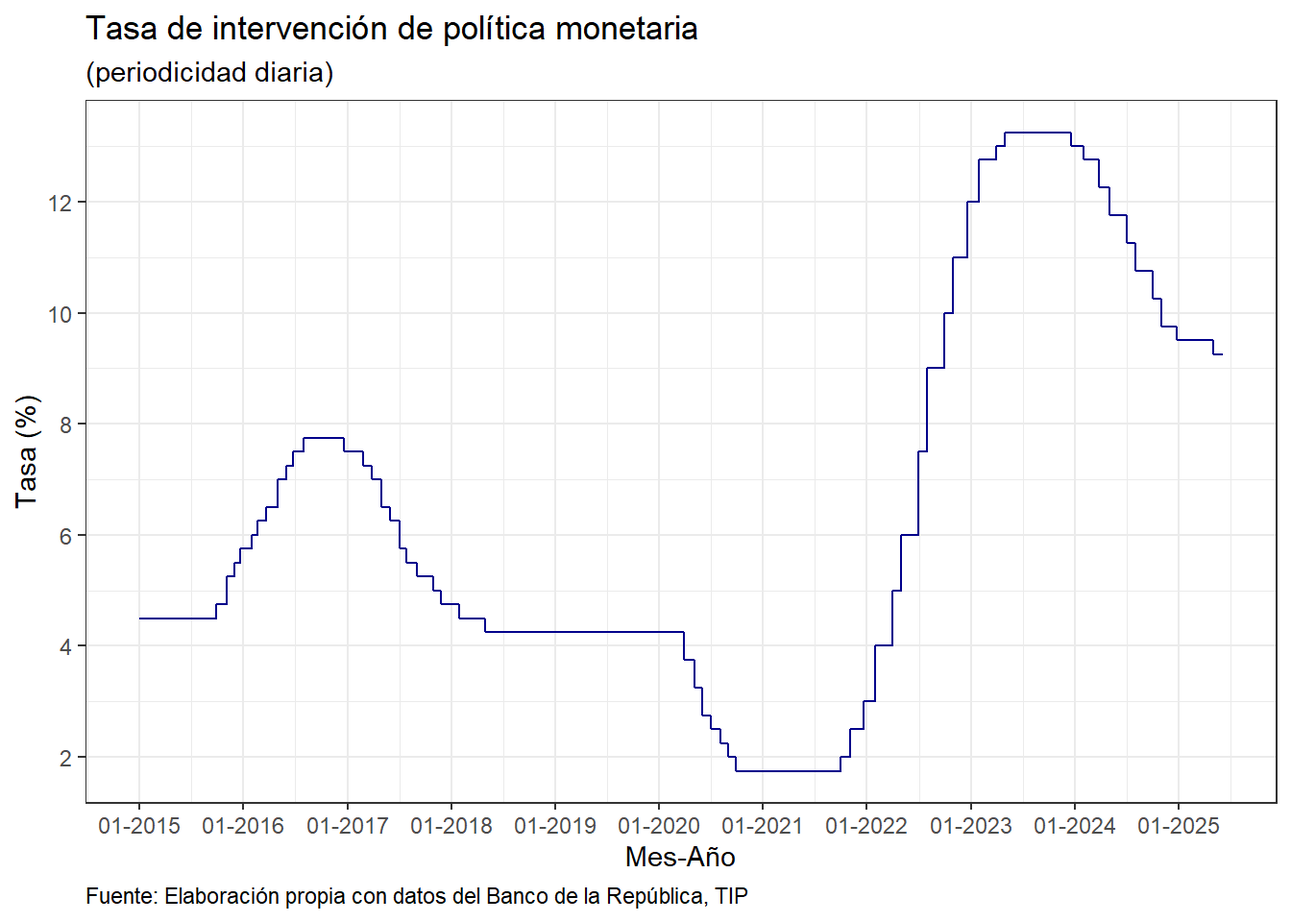
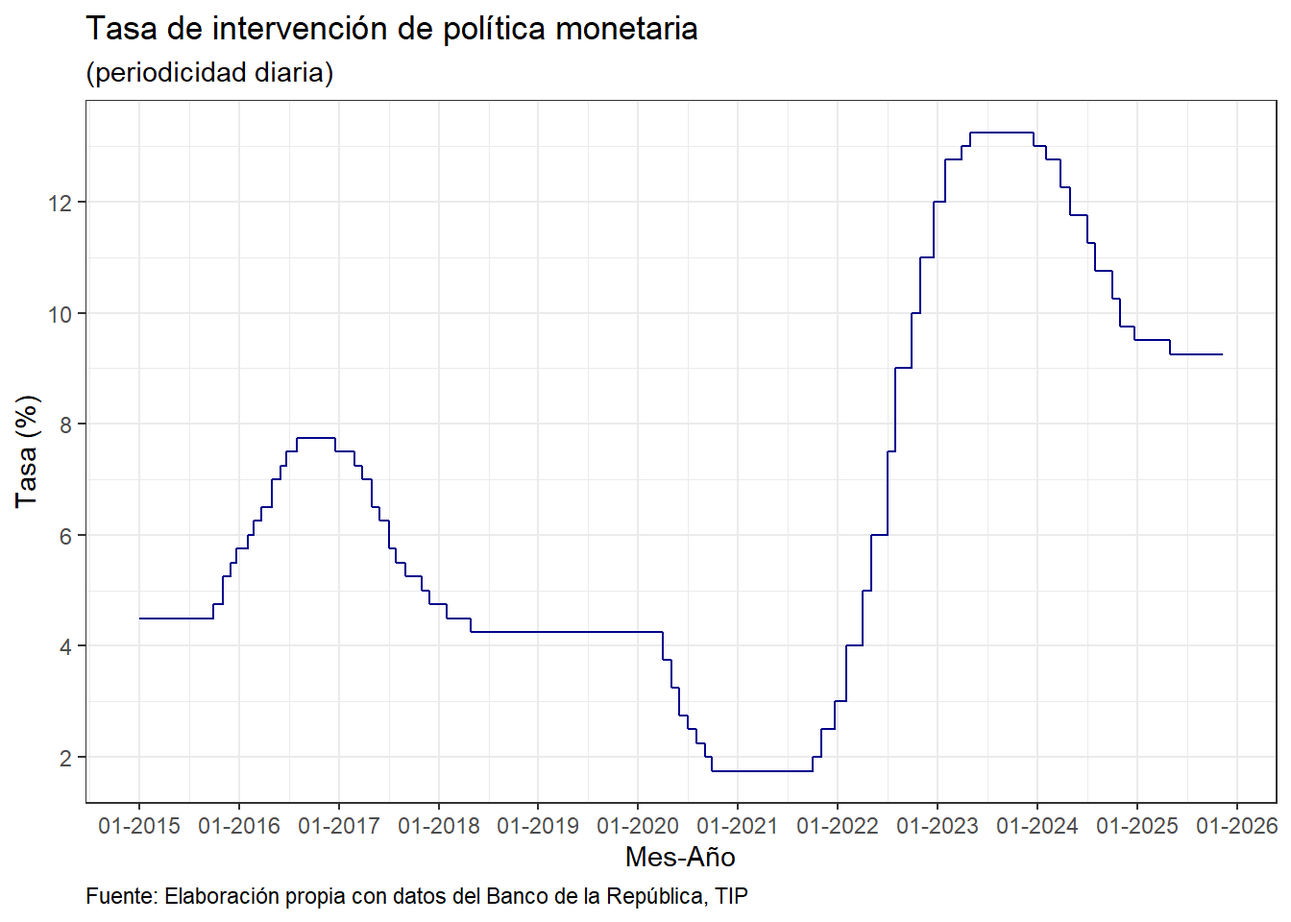
Publish site to docs/

diff --git a/docs/REPO_rate.html b/docs/REPO_rate.html
@@ -2,12 +2,12 @@
 <html xmlns="http://www.w3.org/1999/xhtml" lang="en" xml:lang="en"><head>
 
 <meta charset="utf-8">
-<meta name="generator" content="quarto-1.7.31">
+<meta name="generator" content="quarto-1.7.32">
 
 <meta name="viewport" content="width=device-width, initial-scale=1.0, user-scalable=yes">
 
 <meta name="author" content="Miguel Martinez">
-<meta name="dcterms.date" content="2025-06-04">
+<meta name="dcterms.date" content="2025-11-09">
 
 <title>Policy rate</title>
 <style>
@@ -72,7 +72,7 @@ pre > code.sourceCode > span > a:first-child::before { text-decoration: underlin
 <script src="site_libs/quarto-html/tippy.umd.min.js"></script>
 <script src="site_libs/quarto-html/anchor.min.js"></script>
 <link href="site_libs/quarto-html/tippy.css" rel="stylesheet">
-<link href="site_libs/quarto-html/quarto-syntax-highlighting-e1a5c8363afafaef2c763b6775fbf3ca.css" rel="stylesheet" id="quarto-text-highlighting-styles">
+<link href="site_libs/quarto-html/quarto-syntax-highlighting-37eea08aefeeee20ff55810ff984fec1.css" rel="stylesheet" id="quarto-text-highlighting-styles">
 <script src="site_libs/bootstrap/bootstrap.min.js"></script>
 <link href="site_libs/bootstrap/bootstrap-icons.css" rel="stylesheet">
 <link href="site_libs/bootstrap/bootstrap-dfb324f25d9b1687192fa8be62ac8f9c.min.css" rel="stylesheet" append-hash="true" id="quarto-bootstrap" data-mode="light">
@@ -151,7 +151,7 @@ pre > code.sourceCode > span > a:first-child::before { text-decoration: underlin
     <div>
     <div class="quarto-title-meta-heading">Published</div>
     <div class="quarto-title-meta-contents">
-      <p class="date">June 4, 2025</p>
+      <p class="date">November 9, 2025</p>
     </div>
   </div>
   
@@ -163,22 +163,28 @@ pre > code.sourceCode > span > a:first-child::before { text-decoration: underlin
 </header>
 
 
-<p>The purpose of this document is to present the process of creating the plot that shows the evolution of the repo rate of the central bank of Colombia: <a href="https://www.banrep.gov.co/es">Banco de la República</a>. The information is made public by this institution and you can replicate this exercise downloading the information <a href="https://suameca.banrep.gov.co/buscador-de-series/#/">here</a>.</p>
+<p>This R document presents the process for loading, munging and plotting the evolution of the daily daily-frequency of the policy rate of the Central Bank of Colombia, <a href="https://www.banrep.gov.co/es">Banco de la República</a>. The information is published by Banrep and you can download it <a href="https://suameca.banrep.gov.co/buscador-de-series/#/">here</a>.</p>
 <p>The first step is to load the following libraries:</p>
 <div class="cell">
-<div class="sourceCode cell-code" id="cb1"><pre class="sourceCode r code-with-copy"><code class="sourceCode r"><span id="cb1-1"><a href="#cb1-1" aria-hidden="true" tabindex="-1"></a><span class="fu">library</span>(readxl)</span>
-<span id="cb1-2"><a href="#cb1-2" aria-hidden="true" tabindex="-1"></a><span class="fu">library</span>(tidyverse)</span>
-<span id="cb1-3"><a href="#cb1-3" aria-hidden="true" tabindex="-1"></a><span class="fu">library</span>(lubridate)</span></code><button title="Copy to Clipboard" class="code-copy-button"><i class="bi"></i></button></pre></div>
+<div class="sourceCode cell-code" id="cb1"><pre class="sourceCode r code-with-copy"><code class="sourceCode r"><span id="cb1-1"><a href="#cb1-1" aria-hidden="true" tabindex="-1"></a><span class="co"># Load libraries</span></span>
+<span id="cb1-2"><a href="#cb1-2" aria-hidden="true" tabindex="-1"></a></span>
+<span id="cb1-3"><a href="#cb1-3" aria-hidden="true" tabindex="-1"></a><span class="fu">library</span>(readxl)</span>
+<span id="cb1-4"><a href="#cb1-4" aria-hidden="true" tabindex="-1"></a><span class="fu">library</span>(tidyverse)</span>
+<span id="cb1-5"><a href="#cb1-5" aria-hidden="true" tabindex="-1"></a><span class="fu">library</span>(lubridate)</span>
+<span id="cb1-6"><a href="#cb1-6" aria-hidden="true" tabindex="-1"></a><span class="fu">library</span>(janitor)</span></code><button title="Copy to Clipboard" class="code-copy-button"><i class="bi"></i></button></pre></div>
 </div>
 <section id="load-data" class="level2">
 <h2 class="anchored" data-anchor-id="load-data">Load data</h2>
-<p>Now we can download the data:</p>
+<p>Now we can load the data:</p>
 <div class="cell">
-<div class="sourceCode cell-code" id="cb2"><pre class="sourceCode r code-with-copy"><code class="sourceCode r"><span id="cb2-1"><a href="#cb2-1" aria-hidden="true" tabindex="-1"></a>data <span class="ot">=</span> readxl<span class="sc">::</span><span class="fu">read_excel</span>(<span class="st">"graficador_series.xlsx"</span>,</span>
-<span id="cb2-2"><a href="#cb2-2" aria-hidden="true" tabindex="-1"></a>                          <span class="at">sheet =</span> <span class="st">"Datos"</span>,</span>
-<span id="cb2-3"><a href="#cb2-3" aria-hidden="true" tabindex="-1"></a>                          <span class="at">range =</span> <span class="st">"A1:I9974"</span>,</span>
-<span id="cb2-4"><a href="#cb2-4" aria-hidden="true" tabindex="-1"></a>                          <span class="at">col_names =</span> <span class="cn">TRUE</span>,</span>
-<span id="cb2-5"><a href="#cb2-5" aria-hidden="true" tabindex="-1"></a>                          <span class="at">na =</span> <span class="st">"-"</span>)</span></code><button title="Copy to Clipboard" class="code-copy-button"><i class="bi"></i></button></pre></div>
+<div class="sourceCode cell-code" id="cb2"><pre class="sourceCode r code-with-copy"><code class="sourceCode r"><span id="cb2-1"><a href="#cb2-1" aria-hidden="true" tabindex="-1"></a><span class="co"># Load data</span></span>
+<span id="cb2-2"><a href="#cb2-2" aria-hidden="true" tabindex="-1"></a></span>
+<span id="cb2-3"><a href="#cb2-3" aria-hidden="true" tabindex="-1"></a>data <span class="ot">=</span> readxl<span class="sc">::</span><span class="fu">read_excel</span>(<span class="st">"graficador_series.xlsx"</span>,</span>
+<span id="cb2-4"><a href="#cb2-4" aria-hidden="true" tabindex="-1"></a>                          <span class="at">sheet =</span> <span class="st">"Datos"</span>,</span>
+<span id="cb2-5"><a href="#cb2-5" aria-hidden="true" tabindex="-1"></a>                          <span class="at">range =</span> <span class="st">"A1:I10133"</span>,</span>
+<span id="cb2-6"><a href="#cb2-6" aria-hidden="true" tabindex="-1"></a>                          <span class="at">col_names =</span> <span class="cn">TRUE</span>,</span>
+<span id="cb2-7"><a href="#cb2-7" aria-hidden="true" tabindex="-1"></a>                          <span class="at">na =</span> <span class="st">"-"</span>,</span>
+<span id="cb2-8"><a href="#cb2-8" aria-hidden="true" tabindex="-1"></a>                          <span class="at">.name_repair =</span> make_clean_names)</span></code><button title="Copy to Clipboard" class="code-copy-button"><i class="bi"></i></button></pre></div>
 </div>
 </section>
 <section id="indexing" class="level2">
@@ -191,93 +197,101 @@ pre > code.sourceCode > span > a:first-child::before { text-decoration: underlin
 </section>
 <section id="transformation" class="level2">
 <h2 class="anchored" data-anchor-id="transformation">Transformation</h2>
-<p>Now we transform the date column with the function <code>as.Date</code>:</p>
+<p>Now we transform the date column with <code>as.Date</code>function:</p>
 <div class="cell">
-<div class="sourceCode cell-code" id="cb4"><pre class="sourceCode r code-with-copy"><code class="sourceCode r"><span id="cb4-1"><a href="#cb4-1" aria-hidden="true" tabindex="-1"></a>data <span class="ot">=</span> data <span class="sc">|&gt;</span> </span>
-<span id="cb4-2"><a href="#cb4-2" aria-hidden="true" tabindex="-1"></a>  dplyr<span class="sc">::</span><span class="fu">mutate</span>(</span>
-<span id="cb4-3"><a href="#cb4-3" aria-hidden="true" tabindex="-1"></a>    <span class="at">Fecha =</span> <span class="fu">as.Date</span>(Fecha, <span class="at">format =</span> <span class="st">"%d/%m/%Y"</span>))</span></code><button title="Copy to Clipboard" class="code-copy-button"><i class="bi"></i></button></pre></div>
+<div class="sourceCode cell-code" id="cb4"><pre class="sourceCode r code-with-copy"><code class="sourceCode r"><span id="cb4-1"><a href="#cb4-1" aria-hidden="true" tabindex="-1"></a><span class="co"># Parsing to date</span></span>
+<span id="cb4-2"><a href="#cb4-2" aria-hidden="true" tabindex="-1"></a></span>
+<span id="cb4-3"><a href="#cb4-3" aria-hidden="true" tabindex="-1"></a>data <span class="ot">=</span> data <span class="sc">|&gt;</span> </span>
+<span id="cb4-4"><a href="#cb4-4" aria-hidden="true" tabindex="-1"></a>  dplyr<span class="sc">::</span><span class="fu">mutate</span>(</span>
+<span id="cb4-5"><a href="#cb4-5" aria-hidden="true" tabindex="-1"></a>    <span class="at">fecha =</span> <span class="fu">as.Date</span>(fecha, <span class="at">format =</span> <span class="st">"%d/%m/%Y"</span>))</span></code><button title="Copy to Clipboard" class="code-copy-button"><i class="bi"></i></button></pre></div>
 </div>
-<p>Now, we can create the new columns: <code>year</code> <code>month</code> and <code>day</code>, from the <code>date</code> variable with the <code>lubridate</code> library:</p>
+<p>Now, we can create the new columns: <code>year</code> <code>month</code> and <code>day</code>, from the <code>date</code> variable with the <code>lubridate</code> functions:</p>
 <div class="cell">
-<div class="sourceCode cell-code" id="cb5"><pre class="sourceCode r code-with-copy"><code class="sourceCode r"><span id="cb5-1"><a href="#cb5-1" aria-hidden="true" tabindex="-1"></a>data<span class="sc">$</span>año <span class="ot">=</span> lubridate<span class="sc">::</span><span class="fu">year</span>(data<span class="sc">$</span>Fecha)</span>
-<span id="cb5-2"><a href="#cb5-2" aria-hidden="true" tabindex="-1"></a>data<span class="sc">$</span>mes <span class="ot">=</span> lubridate<span class="sc">::</span><span class="fu">month</span>(data<span class="sc">$</span>Fecha)</span>
-<span id="cb5-3"><a href="#cb5-3" aria-hidden="true" tabindex="-1"></a>data<span class="sc">$</span>dia <span class="ot">=</span> lubridate<span class="sc">::</span><span class="fu">day</span>(data<span class="sc">$</span>Fecha)</span>
-<span id="cb5-4"><a href="#cb5-4" aria-hidden="true" tabindex="-1"></a></span>
-<span id="cb5-5"><a href="#cb5-5" aria-hidden="true" tabindex="-1"></a><span class="fu">glimpse</span>(data)</span></code><button title="Copy to Clipboard" class="code-copy-button"><i class="bi"></i></button></pre></div>
+<div class="sourceCode cell-code" id="cb5"><pre class="sourceCode r code-with-copy"><code class="sourceCode r"><span id="cb5-1"><a href="#cb5-1" aria-hidden="true" tabindex="-1"></a><span class="co"># Extract information</span></span>
+<span id="cb5-2"><a href="#cb5-2" aria-hidden="true" tabindex="-1"></a></span>
+<span id="cb5-3"><a href="#cb5-3" aria-hidden="true" tabindex="-1"></a>data<span class="sc">$</span>año <span class="ot">=</span> lubridate<span class="sc">::</span><span class="fu">year</span>(data<span class="sc">$</span>fecha)</span>
+<span id="cb5-4"><a href="#cb5-4" aria-hidden="true" tabindex="-1"></a>data<span class="sc">$</span>mes <span class="ot">=</span> lubridate<span class="sc">::</span><span class="fu">month</span>(data<span class="sc">$</span>fecha)</span>
+<span id="cb5-5"><a href="#cb5-5" aria-hidden="true" tabindex="-1"></a>data<span class="sc">$</span>dia <span class="ot">=</span> lubridate<span class="sc">::</span><span class="fu">day</span>(data<span class="sc">$</span>fecha)</span>
+<span id="cb5-6"><a href="#cb5-6" aria-hidden="true" tabindex="-1"></a></span>
+<span id="cb5-7"><a href="#cb5-7" aria-hidden="true" tabindex="-1"></a><span class="fu">glimpse</span>(data)</span></code><button title="Copy to Clipboard" class="code-copy-button"><i class="bi"></i></button></pre></div>
 <div class="cell-output cell-output-stdout">
-<pre><code>Rows: 9,972
+<pre><code>Rows: 10,131
 Columns: 12
-$ Fecha                                               &lt;date&gt; 1998-02-13, 1998-…
-$ `Tasa de política monetaria(Dato diario)`           &lt;chr&gt; "27,00", "27,00", …
-$ `Tasa de política monetaria(Dato fin de semana)`    &lt;chr&gt; NA, "27,00", "27,0…
-$ `Tasa de política monetaria(Dato mes)`              &lt;chr&gt; NA, NA, "27,00", N…
-$ `Tasa de política monetaria(Dato fin de mes)`       &lt;chr&gt; NA, NA, NA, NA, NA…
-$ `Tasa de política monetaria(Dato fin de trimestre)` &lt;chr&gt; NA, NA, NA, NA, NA…
-$ `Tasa de política monetaria(Dato fin de semestre)`  &lt;chr&gt; NA, NA, NA, NA, NA…
-$ `Tasa de política monetaria(Dato fin de año)`       &lt;chr&gt; NA, NA, NA, NA, NA…
-$ `Tasa de política monetaria(Dato semanal)`          &lt;chr&gt; "27,00", NA, NA, N…
-$ año                                                 &lt;dbl&gt; 1998, 1998, 1998, …
-$ mes                                                 &lt;dbl&gt; 2, 2, 2, 2, 2, 2, …
-$ dia                                                 &lt;int&gt; 13, 14, 15, 16, 17…</code></pre>
+$ fecha                                            &lt;date&gt; 1998-02-13, 1998-02-…
+$ tasa_de_politica_monetaria_dato_diario           &lt;chr&gt; "27,00", "27,00", "27…
+$ tasa_de_politica_monetaria_dato_fin_de_semana    &lt;chr&gt; NA, "27,00", "27,00",…
+$ tasa_de_politica_monetaria_dato_mes              &lt;chr&gt; NA, NA, "27,00", NA, …
+$ tasa_de_politica_monetaria_dato_fin_de_mes       &lt;chr&gt; NA, NA, NA, NA, NA, N…
+$ tasa_de_politica_monetaria_dato_fin_de_trimestre &lt;chr&gt; NA, NA, NA, NA, NA, N…
+$ tasa_de_politica_monetaria_dato_fin_de_semestre  &lt;chr&gt; NA, NA, NA, NA, NA, N…
+$ tasa_de_politica_monetaria_dato_fin_de_ano       &lt;chr&gt; NA, NA, NA, NA, NA, N…
+$ tasa_de_politica_monetaria_dato_semanal          &lt;chr&gt; "27,00", NA, NA, NA, …
+$ año                                              &lt;dbl&gt; 1998, 1998, 1998, 199…
+$ mes                                              &lt;dbl&gt; 2, 2, 2, 2, 2, 2, 2, …
+$ dia                                              &lt;int&gt; 13, 14, 15, 16, 17, 1…</code></pre>
 </div>
 </div>
 <div class="cell">
 <div class="sourceCode cell-code" id="cb7"><pre class="sourceCode r code-with-copy"><code class="sourceCode r"><span id="cb7-1"><a href="#cb7-1" aria-hidden="true" tabindex="-1"></a><span class="co"># Converting Tasa diaria to 'double' format replacing "," -&gt; "."</span></span>
 <span id="cb7-2"><a href="#cb7-2" aria-hidden="true" tabindex="-1"></a></span>
 <span id="cb7-3"><a href="#cb7-3" aria-hidden="true" tabindex="-1"></a>data <span class="ot">=</span> data <span class="sc">|&gt;</span></span>
-<span id="cb7-4"><a href="#cb7-4" aria-hidden="true" tabindex="-1"></a>  dplyr<span class="sc">::</span><span class="fu">select</span>(Fecha, año,</span>
+<span id="cb7-4"><a href="#cb7-4" aria-hidden="true" tabindex="-1"></a>  dplyr<span class="sc">::</span><span class="fu">select</span>(fecha, año,</span>
 <span id="cb7-5"><a href="#cb7-5" aria-hidden="true" tabindex="-1"></a>                mes, dia,</span>
-<span id="cb7-6"><a href="#cb7-6" aria-hidden="true" tabindex="-1"></a>                <span class="st">`</span><span class="at">Tasa de política monetaria(Dato diario)</span><span class="st">`</span>) <span class="sc">|&gt;</span> </span>
+<span id="cb7-6"><a href="#cb7-6" aria-hidden="true" tabindex="-1"></a>                tasa_de_politica_monetaria_dato_diario) <span class="sc">|&gt;</span> </span>
 <span id="cb7-7"><a href="#cb7-7" aria-hidden="true" tabindex="-1"></a>  dplyr<span class="sc">::</span><span class="fu">mutate</span>(</span>
-<span id="cb7-8"><a href="#cb7-8" aria-hidden="true" tabindex="-1"></a>    <span class="st">`</span><span class="at">Tasa de política monetaria(Dato diario)</span><span class="st">`</span> <span class="ot">=</span> </span>
+<span id="cb7-8"><a href="#cb7-8" aria-hidden="true" tabindex="-1"></a>    <span class="at">tasa_de_politica_monetaria_dato_diario =</span> </span>
 <span id="cb7-9"><a href="#cb7-9" aria-hidden="true" tabindex="-1"></a>      <span class="fu">as.numeric</span>(<span class="fu">str_replace_all</span>(</span>
-<span id="cb7-10"><a href="#cb7-10" aria-hidden="true" tabindex="-1"></a>        <span class="at">string =</span> <span class="st">`</span><span class="at">Tasa de política monetaria(Dato diario)</span><span class="st">`</span>,</span>
+<span id="cb7-10"><a href="#cb7-10" aria-hidden="true" tabindex="-1"></a>        <span class="at">string =</span> tasa_de_politica_monetaria_dato_diario,</span>
 <span id="cb7-11"><a href="#cb7-11" aria-hidden="true" tabindex="-1"></a>        <span class="at">pattern =</span> <span class="st">","</span>,</span>
 <span id="cb7-12"><a href="#cb7-12" aria-hidden="true" tabindex="-1"></a>        <span class="at">replacement =</span> <span class="st">"."</span>)))</span>
 <span id="cb7-13"><a href="#cb7-13" aria-hidden="true" tabindex="-1"></a></span>
 <span id="cb7-14"><a href="#cb7-14" aria-hidden="true" tabindex="-1"></a>data</span></code><button title="Copy to Clipboard" class="code-copy-button"><i class="bi"></i></button></pre></div>
 <div class="cell-output cell-output-stdout">
-<pre><code># A tibble: 9,972 × 5
-   Fecha        año   mes   dia `Tasa de política monetaria(Dato diario)`
-   &lt;date&gt;     &lt;dbl&gt; &lt;dbl&gt; &lt;int&gt;                                     &lt;dbl&gt;
- 1 1998-02-13  1998     2    13                                        27
- 2 1998-02-14  1998     2    14                                        27
- 3 1998-02-15  1998     2    15                                        27
- 4 1998-02-16  1998     2    16                                        30
- 5 1998-02-17  1998     2    17                                        30
- 6 1998-02-18  1998     2    18                                        30
- 7 1998-02-19  1998     2    19                                        30
- 8 1998-02-20  1998     2    20                                        30
- 9 1998-02-21  1998     2    21                                        30
-10 1998-02-22  1998     2    22                                        30
-# ℹ 9,962 more rows</code></pre>
+<pre><code># A tibble: 10,131 × 5
+   fecha        año   mes   dia tasa_de_politica_monetaria_dato_diario
+   &lt;date&gt;     &lt;dbl&gt; &lt;dbl&gt; &lt;int&gt;                                  &lt;dbl&gt;
+ 1 1998-02-13  1998     2    13                                     27
+ 2 1998-02-14  1998     2    14                                     27
+ 3 1998-02-15  1998     2    15                                     27
+ 4 1998-02-16  1998     2    16                                     30
+ 5 1998-02-17  1998     2    17                                     30
+ 6 1998-02-18  1998     2    18                                     30
+ 7 1998-02-19  1998     2    19                                     30
+ 8 1998-02-20  1998     2    20                                     30
+ 9 1998-02-21  1998     2    21                                     30
+10 1998-02-22  1998     2    22                                     30
+# ℹ 10,121 more rows</code></pre>
 </div>
 </div>
 </section>
 <section id="filtering" class="level2">
 <h2 class="anchored" data-anchor-id="filtering">Filtering</h2>
-<p>Now we can filter the database for the repo rate for the first month of every year starting from 2014:</p>
+<p>Now we can filter the database for the first month of every year starting from 2015:</p>
 <div class="cell">
-<div class="sourceCode cell-code" id="cb9"><pre class="sourceCode r code-with-copy"><code class="sourceCode r"><span id="cb9-1"><a href="#cb9-1" aria-hidden="true" tabindex="-1"></a>data <span class="ot">=</span> data <span class="sc">|&gt;</span> </span>
-<span id="cb9-2"><a href="#cb9-2" aria-hidden="true" tabindex="-1"></a>  <span class="fu">filter</span>(año <span class="sc">&gt;=</span> <span class="dv">2015</span>)</span></code><button title="Copy to Clipboard" class="code-copy-button"><i class="bi"></i></button></pre></div>
+<div class="sourceCode cell-code" id="cb9"><pre class="sourceCode r code-with-copy"><code class="sourceCode r"><span id="cb9-1"><a href="#cb9-1" aria-hidden="true" tabindex="-1"></a><span class="co"># Filter the data</span></span>
+<span id="cb9-2"><a href="#cb9-2" aria-hidden="true" tabindex="-1"></a></span>
+<span id="cb9-3"><a href="#cb9-3" aria-hidden="true" tabindex="-1"></a>data <span class="ot">=</span> data <span class="sc">|&gt;</span> </span>
+<span id="cb9-4"><a href="#cb9-4" aria-hidden="true" tabindex="-1"></a>  <span class="fu">filter</span>(año <span class="sc">&gt;=</span> <span class="dv">2015</span>)</span></code><button title="Copy to Clipboard" class="code-copy-button"><i class="bi"></i></button></pre></div>
 </div>
 </section>
 <section id="graph" class="level2">
 <h2 class="anchored" data-anchor-id="graph">Graph</h2>
 <div class="cell">
-<div class="sourceCode cell-code" id="cb10"><pre class="sourceCode r code-with-copy"><code class="sourceCode r"><span id="cb10-1"><a href="#cb10-1" aria-hidden="true" tabindex="-1"></a>data <span class="sc">|&gt;</span> </span>
-<span id="cb10-2"><a href="#cb10-2" aria-hidden="true" tabindex="-1"></a><span class="fu">ggplot</span>(<span class="fu">aes</span>(<span class="at">x=</span>Fecha, <span class="at">y=</span><span class="st">`</span><span class="at">Tasa de política monetaria(Dato diario)</span><span class="st">`</span>)) <span class="sc">+</span></span>
-<span id="cb10-3"><a href="#cb10-3" aria-hidden="true" tabindex="-1"></a>  <span class="fu">geom_step</span>(<span class="at">color=</span><span class="st">"darkblue"</span>) <span class="sc">+</span></span>
-<span id="cb10-4"><a href="#cb10-4" aria-hidden="true" tabindex="-1"></a>  <span class="fu">scale_x_date</span>(<span class="at">date_breaks =</span> <span class="st">"1 year"</span>, <span class="at">date_labels =</span> <span class="st">"%m-%Y"</span>) <span class="sc">+</span></span>
-<span id="cb10-5"><a href="#cb10-5" aria-hidden="true" tabindex="-1"></a>  <span class="fu">scale_y_continuous</span>(<span class="at">breaks =</span> <span class="fu">seq</span>(<span class="dv">0</span>,<span class="dv">14</span>, <span class="at">by =</span> <span class="dv">2</span>)) <span class="sc">+</span></span>
-<span id="cb10-6"><a href="#cb10-6" aria-hidden="true" tabindex="-1"></a>  <span class="fu">theme_bw</span>() <span class="sc">+</span></span>
-<span id="cb10-7"><a href="#cb10-7" aria-hidden="true" tabindex="-1"></a>  <span class="fu">labs</span>(<span class="at">title =</span> <span class="st">"Tasa de intervención de política monetaria"</span>,</span>
-<span id="cb10-8"><a href="#cb10-8" aria-hidden="true" tabindex="-1"></a>       <span class="at">subtitle =</span> <span class="st">"(periodicidad diaria)"</span>,</span>
-<span id="cb10-9"><a href="#cb10-9" aria-hidden="true" tabindex="-1"></a>       <span class="at">x =</span> <span class="st">"Mes-Año"</span>,</span>
-<span id="cb10-10"><a href="#cb10-10" aria-hidden="true" tabindex="-1"></a>       <span class="at">y =</span> <span class="st">"Tasa (%)"</span>,</span>
-<span id="cb10-11"><a href="#cb10-11" aria-hidden="true" tabindex="-1"></a>       <span class="at">caption =</span> <span class="st">"Fuente: Elaboración propia con datos del Banco de la República, TIP"</span>) <span class="sc">+</span></span>
-<span id="cb10-12"><a href="#cb10-12" aria-hidden="true" tabindex="-1"></a>  <span class="fu">theme</span>(<span class="at">plot.caption.position =</span> <span class="st">"panel"</span>,</span>
-<span id="cb10-13"><a href="#cb10-13" aria-hidden="true" tabindex="-1"></a>        <span class="at">plot.caption =</span> <span class="fu">element_text</span>(<span class="at">hjust =</span> <span class="dv">0</span>))</span></code><button title="Copy to Clipboard" class="code-copy-button"><i class="bi"></i></button></pre></div>
+<div class="sourceCode cell-code" id="cb10"><pre class="sourceCode r code-with-copy"><code class="sourceCode r"><span id="cb10-1"><a href="#cb10-1" aria-hidden="true" tabindex="-1"></a><span class="co"># Create the plot</span></span>
+<span id="cb10-2"><a href="#cb10-2" aria-hidden="true" tabindex="-1"></a></span>
+<span id="cb10-3"><a href="#cb10-3" aria-hidden="true" tabindex="-1"></a>data <span class="sc">|&gt;</span> </span>
+<span id="cb10-4"><a href="#cb10-4" aria-hidden="true" tabindex="-1"></a><span class="fu">ggplot</span>(<span class="fu">aes</span>(<span class="at">x=</span>fecha, <span class="at">y=</span>tasa_de_politica_monetaria_dato_diario)) <span class="sc">+</span></span>
+<span id="cb10-5"><a href="#cb10-5" aria-hidden="true" tabindex="-1"></a>  <span class="fu">geom_step</span>(<span class="at">color=</span><span class="st">"darkblue"</span>) <span class="sc">+</span></span>
+<span id="cb10-6"><a href="#cb10-6" aria-hidden="true" tabindex="-1"></a>  <span class="fu">scale_x_date</span>(<span class="at">date_breaks =</span> <span class="st">"1 year"</span>, <span class="at">date_labels =</span> <span class="st">"%m-%Y"</span>) <span class="sc">+</span></span>
+<span id="cb10-7"><a href="#cb10-7" aria-hidden="true" tabindex="-1"></a>  <span class="fu">scale_y_continuous</span>(<span class="at">breaks =</span> <span class="fu">seq</span>(<span class="dv">0</span>,<span class="dv">14</span>, <span class="at">by =</span> <span class="dv">2</span>)) <span class="sc">+</span></span>
+<span id="cb10-8"><a href="#cb10-8" aria-hidden="true" tabindex="-1"></a>  <span class="fu">theme_bw</span>() <span class="sc">+</span></span>
+<span id="cb10-9"><a href="#cb10-9" aria-hidden="true" tabindex="-1"></a>  <span class="fu">labs</span>(<span class="at">title =</span> <span class="st">"Tasa de intervención de política monetaria"</span>,</span>
+<span id="cb10-10"><a href="#cb10-10" aria-hidden="true" tabindex="-1"></a>       <span class="at">subtitle =</span> <span class="st">"(periodicidad diaria)"</span>,</span>
+<span id="cb10-11"><a href="#cb10-11" aria-hidden="true" tabindex="-1"></a>       <span class="at">x =</span> <span class="st">"Mes-Año"</span>,</span>
+<span id="cb10-12"><a href="#cb10-12" aria-hidden="true" tabindex="-1"></a>       <span class="at">y =</span> <span class="st">"Tasa (%)"</span>,</span>
+<span id="cb10-13"><a href="#cb10-13" aria-hidden="true" tabindex="-1"></a>       <span class="at">caption =</span> <span class="st">"Fuente: Elaboración propia con datos del Banco de la República, TIP"</span>) <span class="sc">+</span></span>
+<span id="cb10-14"><a href="#cb10-14" aria-hidden="true" tabindex="-1"></a>  <span class="fu">theme</span>(<span class="at">plot.caption.position =</span> <span class="st">"panel"</span>,</span>
+<span id="cb10-15"><a href="#cb10-15" aria-hidden="true" tabindex="-1"></a>        <span class="at">plot.caption =</span> <span class="fu">element_text</span>(<span class="at">hjust =</span> <span class="dv">0</span>))</span></code><button title="Copy to Clipboard" class="code-copy-button"><i class="bi"></i></button></pre></div>
 <div class="cell-output-display">
 <div>
 <figure class="figure">
@@ -289,7 +303,7 @@ $ dia                                                 &lt;int&gt; 13, 14, 15, 16
 </section>
 <section id="conclusion" class="level2">
 <h2 class="anchored" data-anchor-id="conclusion">Conclusion</h2>
-<p>In the previous graph we can see the latest monetary policy decisions by the Banco de la República regarding the REPO rate. Since the constitutional instruction is to maintain the purchasing power of the different agents of the economy and the inflation expectations anchored to a interval, we can observe that the REPO rate escalated quite rapid in order to contain the raising inflation after the pandemic. It is worth mentioning that the latest <a href="https://www.banrep.gov.co/es/noticias/minutas-banrep-abril-2025">minutes</a> report discretion about reducing very quickly the interest rate levels, due to inflation expectations and external financing conditions.</p>
+<p>In the previous graph we can see the latest monetary policy decisions by the Banco de la República regarding the REPO rate. Since the constitutional instruction is to maintain the purchasing power of the different agents of the economy and the inflation expectations anchored to an interval, we can observe that the REPO rate was reduced to get resources to finance the pandemic, and then quickly escalated in order to contain the raising inflation after the pandemic. It is worth mentioning that the <a href="https://www.banrep.gov.co/es/noticias/minutas-banrep-octubre-2025">latest minutes</a> report discretion about reducing very quickly the interest rate levels, due to inflation levels, inflation expectations and external financing conditions.</p>
 
 
 </section>

diff --git a/docs/site_libs/quarto-html/quarto-syntax-highlighting-37eea08aefeeee20ff55810ff984fec1.css b/docs/site_libs/quarto-html/quarto-syntax-highlighting-37eea08aefeeee20ff55810ff984fec1.css
@@ -233,4 +233,4 @@ code span.wa {
   content: "</";
 }
 
-/*# sourceMappingURL=c735b2cac6c846c1abc72f5ce1520814.css.map */
+/*# sourceMappingURL=27d3d809615f7771493d095567f04340.css.map */
